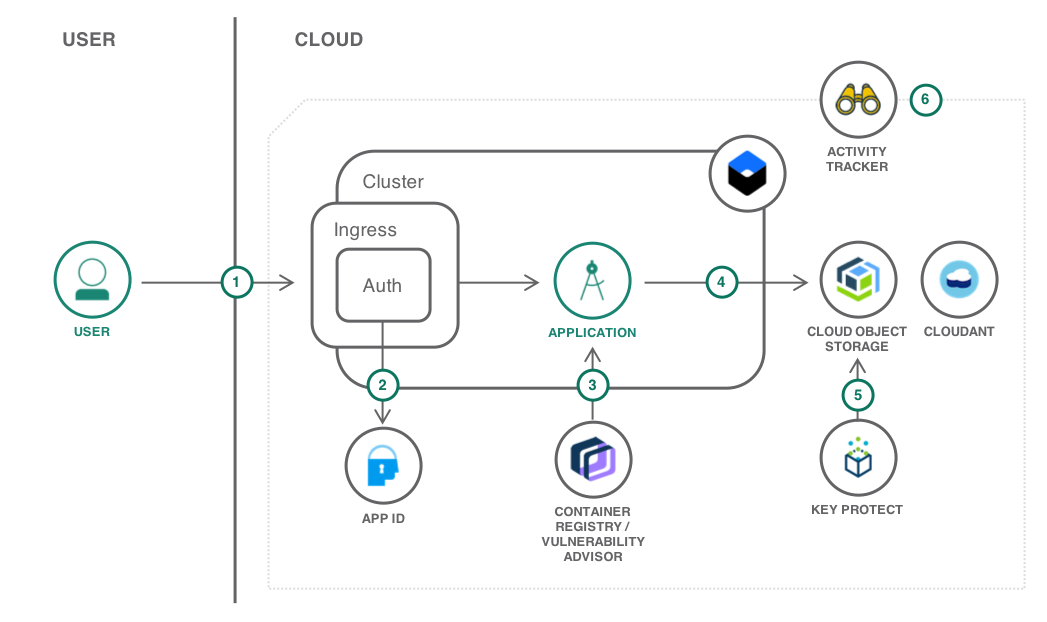
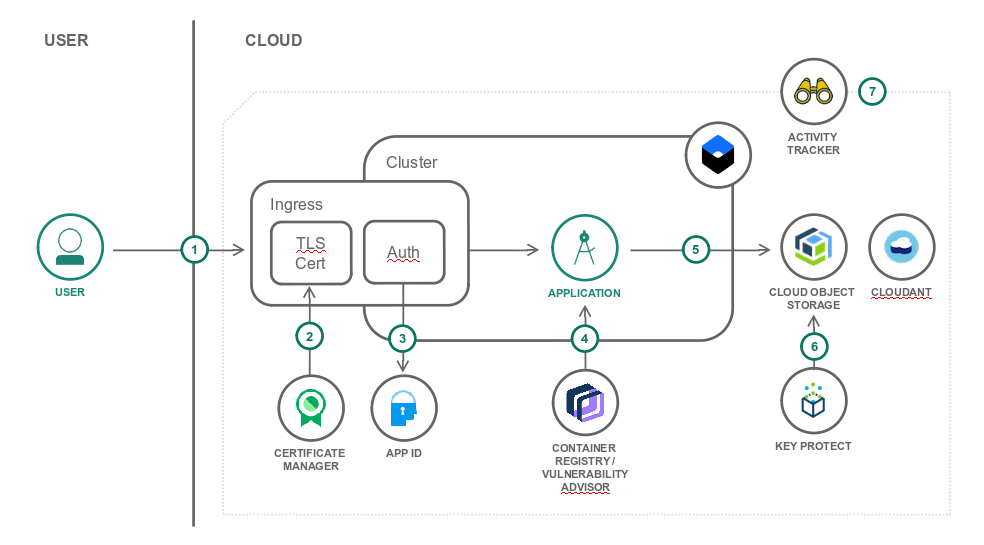
architecture diagram and description with cert manager

Changed region(s): [[0.0305, 0.0312, 0.9756, 0.967], [0.7622, 0.0936, 0.9146, 0.2807], [0.0305, 0.0312, 0.122, 0.0936]]

diff --git a/cloud-e2e-security.md b/cloud-e2e-security.md
@@ -54,11 +54,12 @@ The tutorial features a sample application that enables groups of users to uploa
 </p>
 
 1. The user connects to the application.
-2. {{site.data.keyword.appid_short}} secures the application and redirects the user to the authentication page. Users can sign up from there too.
-3. The application is running in a Kubernetes cluster from an image stored in the {{site.data.keyword.registryshort_notm}}. The image is automatically scanned for vulnerabilities.
-4. Files uploaded by the user are stored in {{site.data.keyword.cos_short}} with metadata in {{site.data.keyword.cloudant_short_notm}}.
-5. The bucket where the files are stored is using a user-provided key to encrypt the data.
-6. All activities related to managing the solution are logged by {{site.data.keyword.cloudaccesstrailshort}}.
+2. If using a custom domain and a TLS certificate, the certificate is managed by and deployed from the {{site.data.keyword.cloudcerts_short}}.
+3. {{site.data.keyword.appid_short}} secures the application and redirects the user to the authentication page. Users can sign up from there too.
+4. The application is running in a Kubernetes cluster from an image stored in the {{site.data.keyword.registryshort_notm}}. The image is automatically scanned for vulnerabilities.
+5. Files uploaded by the user are stored in {{site.data.keyword.cos_short}} with metadata in {{site.data.keyword.cloudant_short_notm}}.
+6. The bucket where the files are stored is using a user-provided key to encrypt the data.
+7. All activities related to managing the solution are logged by {{site.data.keyword.cloudaccesstrailshort}}.
 
 ## Before you begin
 {: #prereqs}
